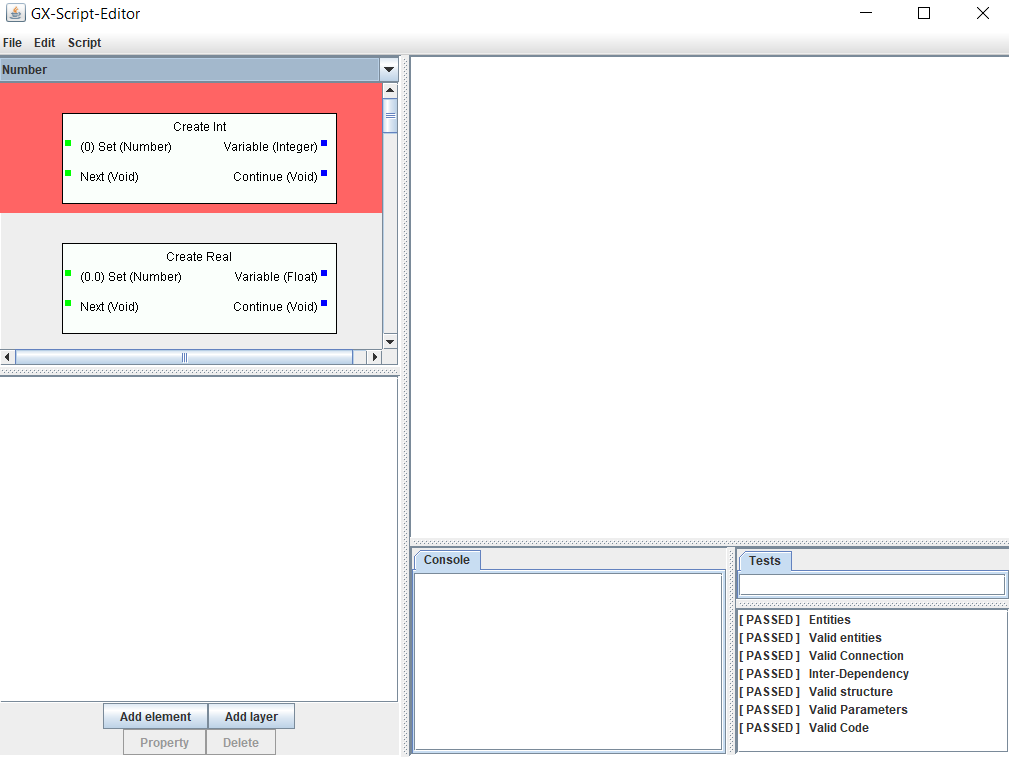
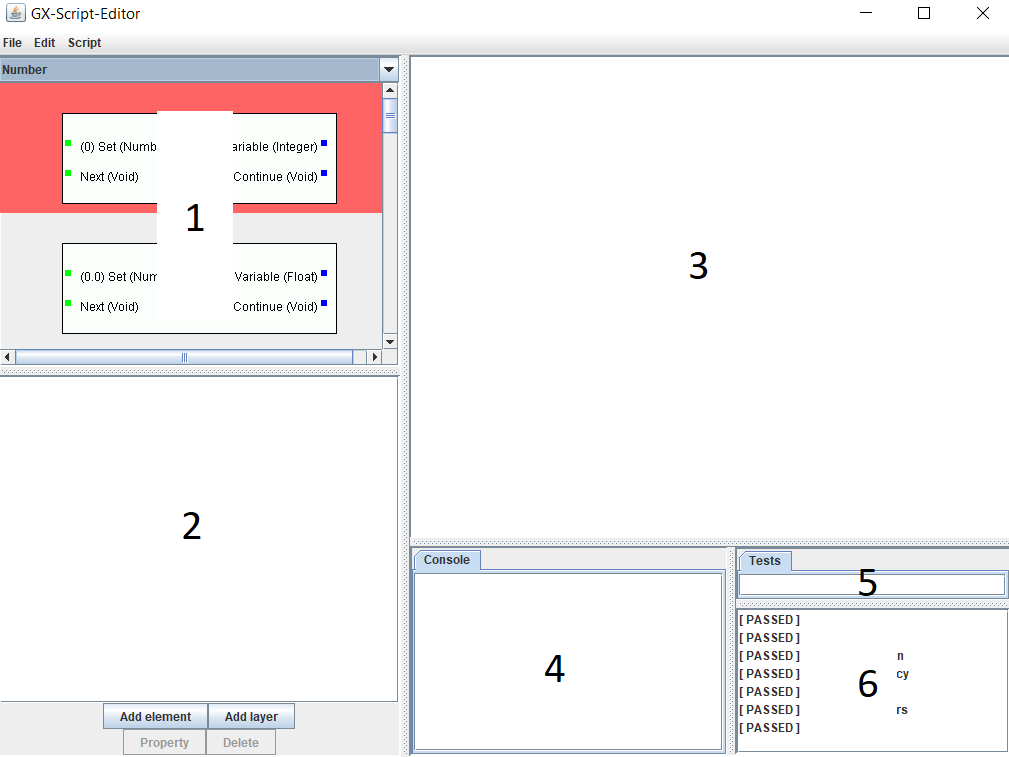
[UPD] Example demo

diff --git a/Readme.md b/Readme.md
@@ -1,17 +1,61 @@
 # GX-Script-Editor
+![GX-Script](https://raw.githubusercontent.com/eadgyo/GX-Script-Editor/master/img/example.PNG)
 This editor is made to create [GX-Script](https://github.com/eadgyo/GX-Script).
 
 ## Default view
+![GX-Script](https://raw.githubusercontent.com/eadgyo/GX-Script-Editor/master/img/frame.PNG)
+(1) Select the entity you want to add to your script
+(2) Display the tree structure view
+(3) Panel where script will be created
+(4) Console output
+(5) Entities compilation order
+(6) Tests results
 
 ## Creating GX-Script
+![box](https://raw.githubusercontent.com/eadgyo/GX-Script-Editor/master/img/box.PNG)
+
+Select entities and add them to the script panel (3). 
+Use green and blue rectangle to link them. You can also define default input by clicking on the input green rectangle ![GX-Script](https://raw.githubusercontent.com/eadgyo/GX-Script-Editor/master/img/greenbox.PNG). The value to the right is the default value that will be used if no input is set.
+
+### Example
+In this section we will create a simple multiplication script:
+![Multiplication failed](https://raw.githubusercontent.com/eadgyo/GX-Script-Editor/master/img/multiply_failed.PNG)
+As you can see, when validating or launching the script, tests failed. We are missing mandatory input entities.
+
+By adding two entities as input, and clicking on green rectangles, we can define input numbers (5 and 2.0 here). When launching the script, tests are all passed and we have the expected result: 10.0.
+![Multiplication failed](https://raw.githubusercontent.com/eadgyo/GX-Script-Editor/master/img/multiply_valid.PNG)
+
+
 
 ## Launching
+Click edit button and Launch your script. Output will be displayed in the Console output.
+You can also validate your script before launching, validation results will be displayed in (6) panel.
+![Console output](https://raw.githubusercontent.com/eadgyo/GX-Script-Editor/master/img/egx_example_cons.PNG)
+![Passing test](https://raw.githubusercontent.com/eadgyo/GX-Script-Editor/master/img/validation_failed.PNG)
+
+
 
 ## Layers
+![Layers](https://raw.githubusercontent.com/eadgyo/GX-Script-Editor/master/img/LayerPanel.PNG)
+The (2) panel displays the tree hierarchy, to group GX-Entities by layers. You can add layers inside layers. To change their color, you can click on Property.
+This is for example the result on our script panel (3):
+![Layers](https://raw.githubusercontent.com/eadgyo/GX-Script-Editor/master/img/layerDemo.PNG)
+By selecting a layer, you can move every entities inside the layer.
 
 ## Importing script inside other script
+You can create your own GX-Entities in java, described [here]() . Or create GX-Script from GX-Script-Editor.
+This last option will be described here:
 
-# Entities
-## Creating Entities
+### Creating Entities
+We will create a GX-Entity adding one from the input. Add Parameter input and output to define GX-Entity inputs and outputs.
+![Adding one](https://raw.githubusercontent.com/eadgyo/GX-Script-Editor/master/img/function.PNG)
+Export your script by clicking on ```File/Export entity```. Choose the name, and group of your entity.
 
-## Importing entities
+Create a new script ```File/New script```
+Import your script entity ```File/Import script```
+The entity will be added to his group (here the group is operation).
+![Adding one](https://raw.githubusercontent.com/eadgyo/GX-Script-Editor/master/img/addingOneGroup.PNG)
+
+Add other entity to test the entity, and launch the full script.
+![Adding one](https://raw.githubusercontent.com/eadgyo/GX-Script-Editor/master/img/addingOne.PNG)
+The result from output is the one expected, as the input is set to 0.
